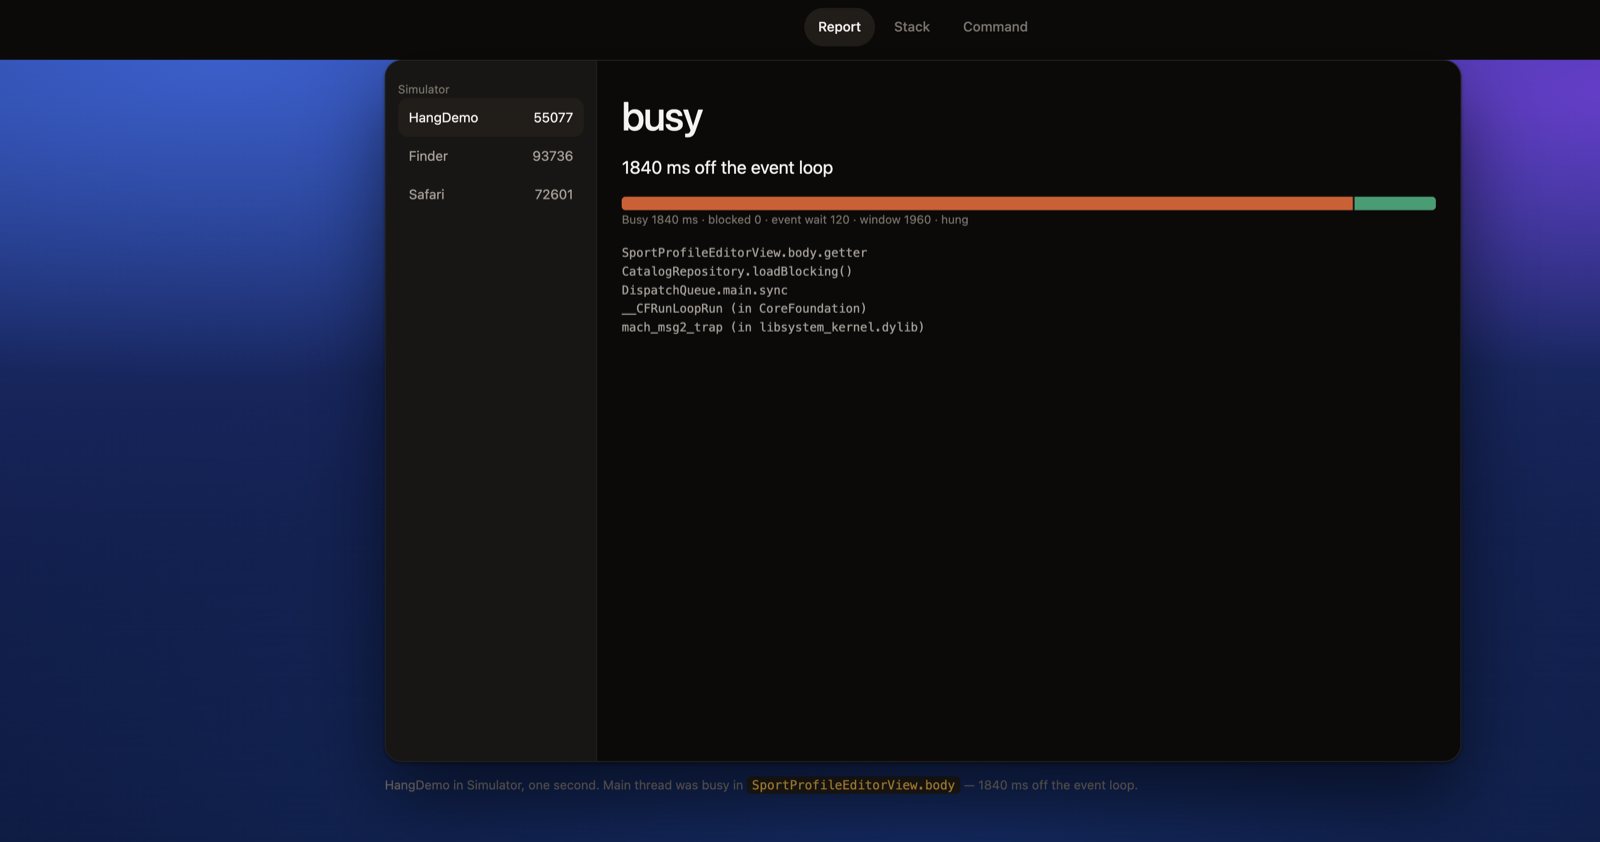
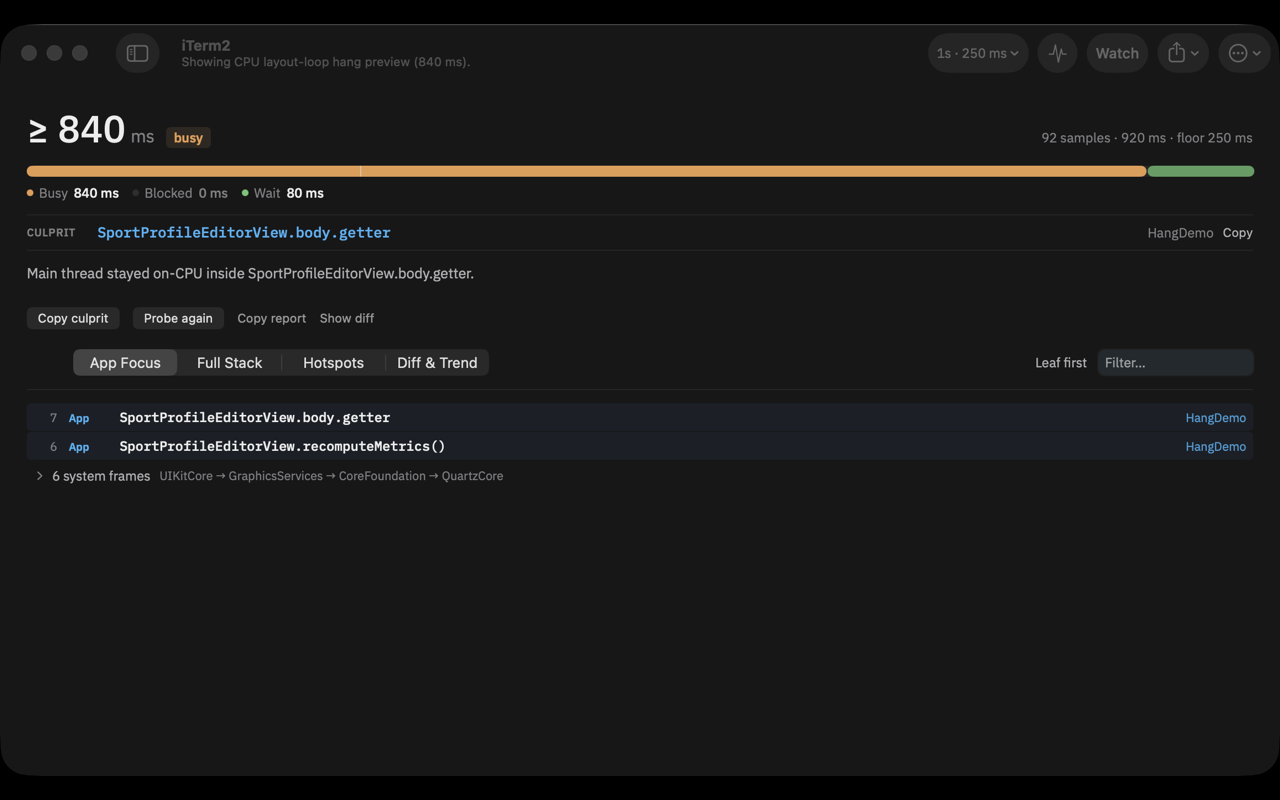
Add live Hangprobe screenshots and inspector GIF for docs.
Replace mock site stage and Awtsyde showcase names with HangDemo captures so README and the marketing page show the real desk UI.

diff --git a/site/index.html b/site/index.html
@@ -225,7 +225,7 @@ h1 {
 .frame {
   width: min(1120px, 100%);
   margin: 0 auto;
-  aspect-ratio: 1440 / 940;
+  aspect-ratio: 1280 / 800;
   border: 1px solid #f5f3f01a;
   border-radius: clamp(10px, 1.4vw, 18px);
   box-shadow: var(--shadow-stage);
@@ -237,31 +237,20 @@ h1 {
   position: absolute;
   inset: 0;
   display: grid;
-  grid-template-columns: 220px 1fr;
   opacity: 0;
   transform: scale(0.985);
   transition: opacity 300ms var(--ease-out), transform 400ms var(--ease-out);
   pointer-events: none;
+  background: var(--ground);
 }
 .shot.on { opacity: 1; transform: scale(1); pointer-events: auto; }
-.side { border-right: 1px solid var(--hairline-soft); padding: 1.25rem 0.8rem; background: var(--surface); }
-.side p, .cap { margin: 0; color: var(--ink-3); font-size: 0.75rem; }
-.app {
-  display: flex;
-  justify-content: space-between;
-  padding: 0.55rem 0.7rem;
-  border-radius: 10px;
-  color: var(--ink-2);
-  font-size: 0.875rem;
+.shot img {
+  width: 100%;
+  height: 100%;
+  object-fit: cover;
+  object-position: top left;
+  display: block;
 }
-.app.on { background: var(--raised); color: var(--ink); }
-.main { padding: 1.5rem 1.6rem; overflow: auto; }
-.kind { margin: 0; color: var(--ink); font-size: clamp(1.8rem, 3vw, 2.6rem); font-weight: 500; letter-spacing: -0.03em; }
-.gap { margin: 0.35rem 0 1rem; color: var(--ink); font-size: 1.15rem; }
-.bar { display: flex; height: 14px; gap: 2px; border-radius: 4px; overflow: hidden; background: var(--raised); }
-.bar i { display: block; height: 100%; }
-.busy { width: 2.2%; background: var(--orange); }
-.wait { width: 97.8%; background: var(--green); }
 .stack, pre {
   margin: 1rem 0 0;
   font-family: var(--mono);
@@ -479,8 +468,7 @@ h1 .br { display: none; }
   .chev { right: auto; left: 50%; top: auto; bottom: -0.95rem; translate: -50% 0; rotate: 90deg; }
 }
 @media (max-width: 900px) {
-  .lead, .install, .shot { grid-template-columns: 1fr; }
-  .side { display: none; }
+  .lead, .install { grid-template-columns: 1fr; }
 }
 @media (max-width: 860px) {
   .scroller { overflow-x: auto; }
@@ -544,56 +532,23 @@ h1 .br { display: none; }
 
   <div id="stage">
     <div class="notch" role="tablist" aria-label="Product views">
-      <button class="tab" role="tab" id="tab-report" aria-controls="panel-report" aria-selected="true" tabindex="0">Report</button>
-      <button class="tab" role="tab" id="tab-stack" aria-controls="panel-stack" aria-selected="false" tabindex="-1">Stack</button>
-      <button class="tab" role="tab" id="tab-command" aria-controls="panel-command" aria-selected="false" tabindex="-1">Command</button>
+      <button class="tab" role="tab" id="tab-report" aria-controls="panel-report" aria-selected="true" tabindex="0">App Focus</button>
+      <button class="tab" role="tab" id="tab-stack" aria-controls="panel-stack" aria-selected="false" tabindex="-1">Hotspots</button>
+      <button class="tab" role="tab" id="tab-command" aria-controls="panel-command" aria-selected="false" tabindex="-1">Inspect</button>
     </div>
     <div class="field">
       <div class="frame">
         <div class="shot on" id="panel-report" role="tabpanel" aria-labelledby="tab-report">
-          <div class="side">
-            <p>Simulator</p>
-            <div class="app on">HangDemo <span>55077</span></div>
-            <div class="app">Finder <span>93736</span></div>
-            <div class="app">Safari <span>72601</span></div>
-          </div>
-          <div class="main">
-            <p class="kind">busy</p>
-            <p class="gap">1840 ms off the event loop</p>
-            <div class="bar" aria-hidden="true"><i class="busy" style="flex:9"></i><i class="wait" style="flex:1"></i></div>
-            <p class="cap">Busy 1840 ms · blocked 0 · event wait 120 · window 1960 · hung</p>
-            <pre>SportProfileEditorView.body.getter
-CatalogRepository.loadBlocking()
-DispatchQueue.main.sync
-__CFRunLoopRun (in CoreFoundation)
-mach_msg2_trap (in libsystem_kernel.dylib)</pre>
-          </div>
+          <img src="../assets/screenshots/desk.png" alt="Hangprobe App Focus view of a busy HangDemo hang" width="1280" height="800" />
         </div>
         <div class="shot" id="panel-stack" role="tabpanel" aria-labelledby="tab-stack" hidden>
-          <div class="main">
-            <p class="kind">App Focus</p>
-            <p class="gap">SportProfileEditorView.body.getter</p>
-            <pre>SportProfileEditorView.body.getter
-CatalogRepository.loadBlocking()
-· 6 framework frames folded
-DispatchQueue.main.sync
-· 4 CoreFoundation frames folded</pre>
-          </div>
+          <img src="../assets/screenshots/hotspots.png" alt="Hangprobe Hotspots presence across main-thread samples" width="1280" height="800" />
         </div>
         <div class="shot" id="panel-command" role="tabpanel" aria-labelledby="tab-command" hidden>
-          <div class="main">
-            <p class="kind">probe</p>
-            <pre><span class="p">$</span> hangprobe probe HangDemo
-
-<span class="k">"kind"</span><span class="p">:</span> <span class="p">"busy"</span>
-<span class="k">"main_gap_ms"</span><span class="p">:</span> 1840
-<span class="k">"hung"</span><span class="p">:</span> true
-<span class="k">"top"</span><span class="p">:</span> <span class="p">"SportProfileEditorView.body.getter"</span>
-<span class="k">"where"</span><span class="p">:</span> <span class="p">"simulator"</span></pre>
-          </div>
+          <img src="../assets/screenshots/inspect.gif" alt="Hangprobe inspector cycling App Focus, Full Stack, Hotspots, and Diff and Trend" width="900" height="562" />
         </div>
       </div>
-      <p class="caption">HangDemo in Simulator, one second. Main thread was busy in <code>SportProfileEditorView.body</code> — 1840 ms off the event loop.</p>
+      <p class="caption">Live Hangprobe desk — HangDemo busy hang, ≥ 840 ms off the event loop. Inspect cycles App Focus → Full Stack → Hotspots → Diff &amp; Trend.</p>
     </div>
   </div>
 

diff --git a/Sources/HangprobeApp/ProbeModel.swift b/Sources/HangprobeApp/ProbeModel.swift
@@ -401,18 +401,18 @@ final class ProbeModel {
                 "__CFRunLoopDoObservers (in CoreFoundation)",
                 "CA::Transaction::commit() (in QuartzCore)",
                 "-[UIView layoutSubviews] (in UIKitCore)",
-                "SportProfileEditorView.recomputeMetrics() (in Awtsyde)",
-                "SportProfileEditorView.body.getter (in Awtsyde)",
+                "SportProfileEditorView.recomputeMetrics() (in HangDemo)",
+                "SportProfileEditorView.body.getter (in HangDemo)",
             ],
             pid: 55102,
-            app: "Awtsyde",
-            bundleID: "com.awtsyde.mobile",
+            app: "HangDemo",
+            bundleID: "com.example.hangdemo",
             place: .simulator,
             note: "Preview · Layout pass stayed on-CPU across 84 of 92 samples.",
             context: HangContext(commit: "8f3c12a", screen: "SportProfileEditorView", device: "iPhone 17 Pro Sim", os: "iOS 20.1", arch: "arm64"),
             hotspots: [
-                FrameHotspot(frame: "SportProfileEditorView.body.getter (in Awtsyde)", hits: 84, totalSamples: 92),
-                FrameHotspot(frame: "SportProfileEditorView.recomputeMetrics() (in Awtsyde)", hits: 79, totalSamples: 92),
+                FrameHotspot(frame: "SportProfileEditorView.body.getter (in HangDemo)", hits: 84, totalSamples: 92),
+                FrameHotspot(frame: "SportProfileEditorView.recomputeMetrics() (in HangDemo)", hits: 79, totalSamples: 92),
                 FrameHotspot(frame: "-[UIView layoutSubviews] (in UIKitCore)", hits: 84, totalSamples: 92),
                 FrameHotspot(frame: "__CFRunLoopServiceMachPort (in CoreFoundation)", hits: 8, totalSamples: 92),
             ]
@@ -435,19 +435,19 @@ final class ProbeModel {
                 "__CFRunLoopRun (in CoreFoundation)",
                 "__CFRunLoopDoSources0 (in CoreFoundation)",
                 "__CFRUNLOOP_IS_CALLING_OUT_TO_A_SOURCE0_PERFORM_FUNCTION__ (in CoreFoundation)",
-                "-[CatalogStore syncMainThread] (in Awtsyde)",
+                "-[CatalogStore syncMainThread] (in HangDemo)",
                 "_pthread_mutex_firstfit_lock_slow (in libsystem_pthread.dylib)",
                 "__psynch_mutexwait (in libsystem_kernel.dylib)",
             ],
             pid: 55102,
-            app: "Awtsyde",
-            bundleID: "com.awtsyde.mobile",
+            app: "HangDemo",
+            bundleID: "com.example.hangdemo",
             place: .simulator,
             note: "Preview · Main thread parked on a contended mutex inside a Source0 callback.",
             context: HangContext(commit: "8f3c12a", screen: "CatalogSheet", device: "iPhone 17 Pro Sim", os: "iOS 20.1", arch: "arm64"),
             hotspots: [
                 FrameHotspot(frame: "__psynch_mutexwait (in libsystem_kernel.dylib)", hits: 93, totalSamples: 93),
-                FrameHotspot(frame: "-[CatalogStore syncMainThread] (in Awtsyde)", hits: 93, totalSamples: 93),
+                FrameHotspot(frame: "-[CatalogStore syncMainThread] (in HangDemo)", hits: 93, totalSamples: 93),
             ]
         )
 
@@ -471,8 +471,8 @@ final class ProbeModel {
                 "mach_msg2_trap (in libsystem_kernel.dylib)",
             ],
             pid: 55102,
-            app: "Awtsyde",
-            bundleID: "com.awtsyde.mobile",
+            app: "HangDemo",
+            bundleID: "com.example.hangdemo",
             place: .simulator,
             note: "Preview · Fix verified: main thread spent 98% of the window parked cleanly in the event loop.",
             context: HangContext(commit: "94d01ef", screen: "SportProfileEditorView", device: "iPhone 17 Pro Sim", os: "iOS 20.1", arch: "arm64"),
@@ -483,6 +483,9 @@ final class ProbeModel {
         )
 
         error = nil
+        // Showcase is not tied to a live sidebar row — clear selection so the
+        // nav title falls through to report.app (HangDemo) instead of the last probe target.
+        selection = nil
         appHistory = [blockedSample, busySample, responsiveSample]
         switch kind {
         case .busy:

diff --git a/README.md b/README.md
@@ -12,7 +12,13 @@ Apple's hang floor is `250 ms`. An Android `ANR` is a separate `~5,000 ms` OS ti
   <img src="assets/screenshots/desk.png" alt="Hangprobe desk studio showing a busy hang in HangDemo" width="900" />
 </p>
 
-<p align="center"><sub>HangDemo in Simulator — busy hang, App Focus stack, 1840 ms off the event loop.</sub></p>
+<p align="center"><sub>HangDemo busy hang — App Focus, ≥ 840 ms off the event loop.</sub></p>
+
+<p align="center">
+  <img src="assets/screenshots/inspect.gif" alt="Hangprobe inspector cycling App Focus, Full Stack, Hotspots, and Diff and Trend" width="900" />
+</p>
+
+<p align="center"><sub>Same run — App Focus → Full Stack → Hotspots → Diff & Trend.</sub></p>
 
 ## When to use it
 
